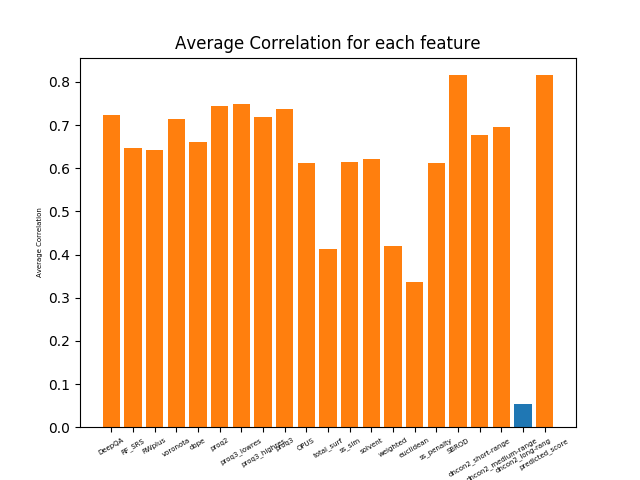
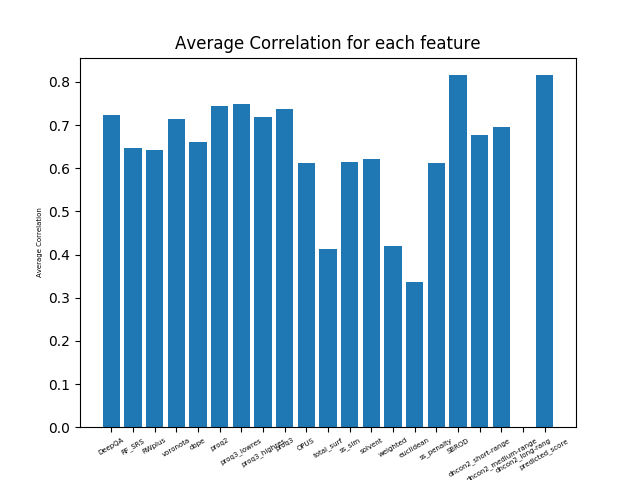
clear bar graph

diff --git a/eval_feats_bar_graph.py b/eval_feats_bar_graph.py
@@ -157,17 +157,17 @@ i = np.arange(len(labels))
 resFolder = sys.argv[2]
 if resFolder.rfind('/') != len(resFolder)-1:
 	resFolder = resFolder+'/'
+plt.cla()
 plt.bar(i,avgL)
 plt.xlabel('Features', fontsize = 5)
 plt.ylabel('Average Loss', fontsize = 5)
 plt.xticks(i, labels, fontsize = 5, rotation = 30)
 plt.title('Average Loss for each feature')
 plt.savefig(resFolder + 'avgL_'+filename+'.png', format = 'png')
+plt.cla()
 plt.bar(i,avgC)
 plt.xlabel('Features', fontsize = 5)
 plt.ylabel('Average Correlation', fontsize = 5)
 plt.xticks(i, labels, fontsize = 5, rotation = 30)
 plt.title('Average Correlation for each feature')
 plt.savefig(resFolder + 'avgC_'+filename+'.png', format = 'png')
-
-
